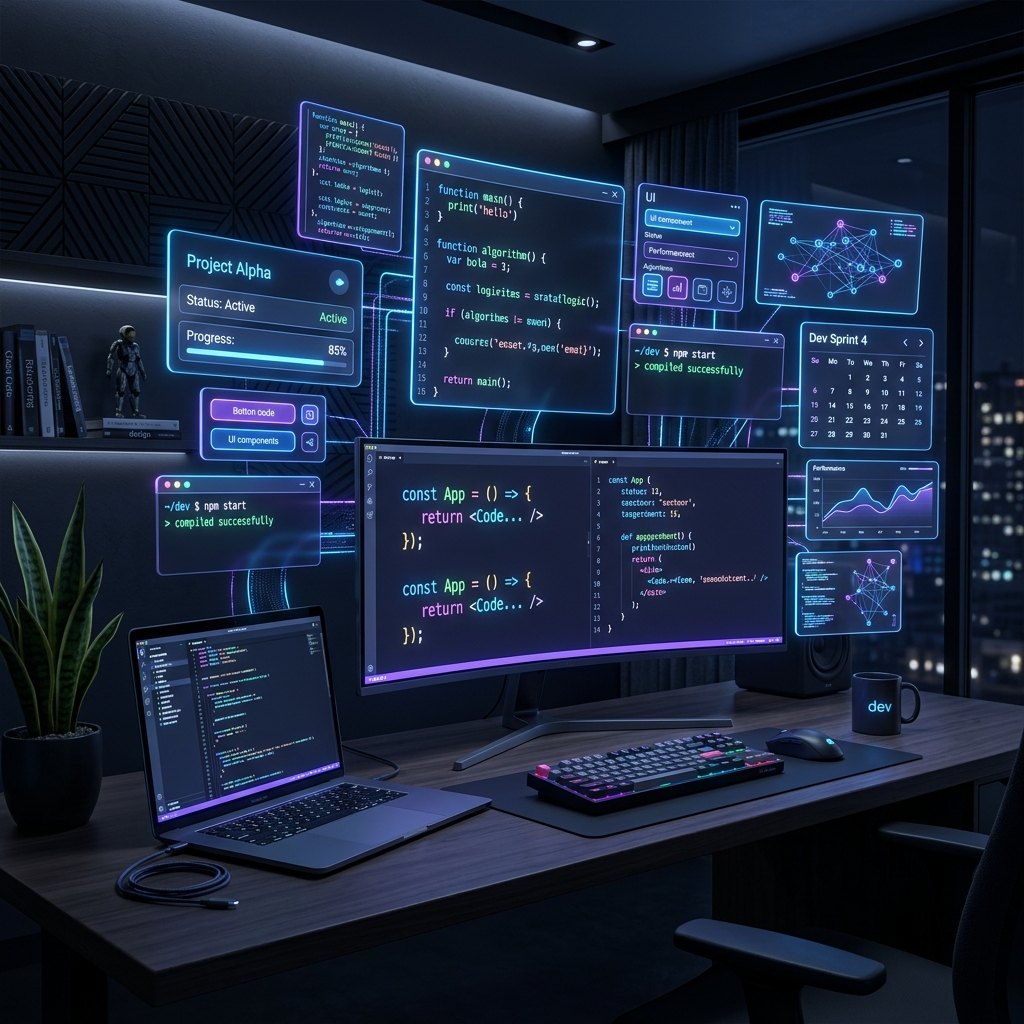
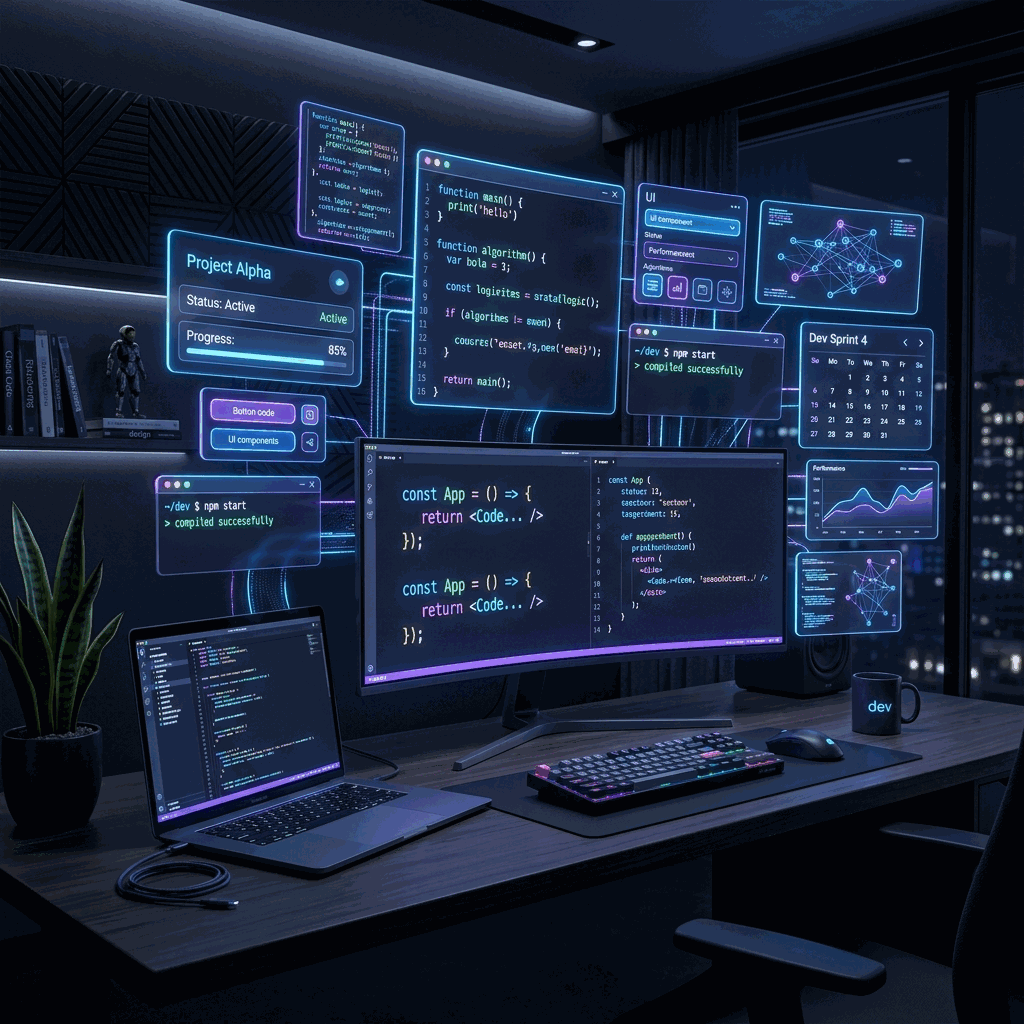
Improve performance: fonts, caching, compression, loader
Performance and asset handling improvements:

- Move font imports to index.html and add preconnects; include additional Google font weights and Aquire (fonts.cdnfonts) with non-blocking load and noscript fallbacks. Removed font @user from style.css.
- Add compression dependency and enable gzip compression middleware in server.
- Serve static files with long-lived cache headers (1y immutable) and ensure HTML/JSON/XML use must-revalidate to allow updates. Apply static options to /admin, /img/projects and root.
- Update client script loader to safely hide/remove the loader, add a 1.5s fallback timeout, and skip particles on mobile or reduced-motion for performance.
- Add original copies of updated images and replace/modify image files accordingly.

These changes reduce render blocking, improve network performance, and prevent stuck loading states on slow connections.

Changed region(s): [[0.2812, 0.375, 0.3125, 0.4375], [0.4688, 0.1875, 0.5, 0.2188], [0.1562, 0.4688, 0.1875, 0.5]]

diff --git a/script.js b/script.js
@@ -18,15 +18,23 @@ function initLoadingScreen() {
     `;
   document.body.appendChild(loader);
 
-  window.addEventListener("load", () => {
+  const hideLoader = () => {
+    if (loader.style.opacity === "0") return;
+    loader.style.opacity = "0";
+    document.body.classList.add("loaded");
     setTimeout(() => {
-      loader.style.opacity = "0";
-      document.body.classList.add("loaded");
-      setTimeout(() => {
-        loader.remove();
-      }, 500);
+      loader.remove();
     }, 500);
+  };
+
+  // Dismiss loader on window load OR after a fallback timeout (1.5 seconds)
+  // to ensure immediate usability on slow mobile connections.
+  window.addEventListener("load", () => {
+    setTimeout(hideLoader, 200);
   });
+  
+  // Safe fallback to prevent loader getting stuck on slow networks
+  setTimeout(hideLoader, 1500);
 }
 
 // Initialize particles background
@@ -47,8 +55,8 @@ function initParticles() {
 
   if (typeof particlesJS !== "function") return;
 
-  if (prefersReduced) {
-    // Disable on reduced motion for performance
+  if (prefersReduced || isMobile) {
+    // Disable on mobile or reduced motion for performance
     particlesContainer.remove();
     return;
   }

diff --git a/server.js b/server.js
@@ -11,6 +11,9 @@ const { db, initDB } = require("./db");
 
 const app = express();
 
+const compression = require("compression");
+app.use(compression());
+
 app.use(helmet({ contentSecurityPolicy: false }));
 app.use(cors());
 app.use(express.json());
@@ -46,13 +49,25 @@ const transporter = nodemailer.createTransport({
 // ═══════════════════════════════════════════════════════════════════════
 
 // Serve admin panel static files FIRST
-app.use("/admin", express.static(path.join(__dirname, "admin")));
+const staticOptions = {
+  maxAge: "1y",
+  setHeaders: (res, filePath) => {
+    const ext = path.extname(filePath).toLowerCase();
+    if (ext === ".html" || ext === ".json" || ext === ".xml") {
+      res.setHeader("Cache-Control", "public, max-age=0, must-revalidate");
+    } else {
+      res.setHeader("Cache-Control", "public, max-age=31536000, immutable");
+    }
+  }
+};
+
+app.use("/admin", express.static(path.join(__dirname, "admin"), staticOptions));
 
 // Serve uploaded project images
-app.use("/img/projects", express.static(path.join(__dirname, "img", "projects")));
+app.use("/img/projects", express.static(path.join(__dirname, "img", "projects"), staticOptions));
 
 // Serve main portfolio static files
-app.use(express.static(__dirname));
+app.use(express.static(__dirname, staticOptions));
 
 // ═══════════════════════════════════════════════════════════════════════
 //  PUBLIC API

diff --git a/index.html b/index.html
@@ -29,18 +29,25 @@
 
   <link rel="preconnect" href="https://fonts.googleapis.com" />
   <link rel="preconnect" href="https://fonts.gstatic.com" crossorigin />
+  <link rel="preconnect" href="https://fonts.cdnfonts.com" crossorigin />
   <link rel="preconnect" href="https://cdnjs.cloudflare.com" crossorigin />
   <link rel="preconnect" href="https://cdn.jsdelivr.net" crossorigin />
   <link rel="dns-prefetch" href="https://unpkg.com" />
 
   <meta name="google-site-verification" content="ByWyF5Jf0UPhacQQxX4AYm4Lzshfs0Z6-zBUB2PM5CQ" />
 
+  <!-- High-Performance Font Loading (Combined Google Fonts & Aquire) -->
   <link rel="stylesheet"
-    href="https://fonts.googleapis.com/css2?family=Fira+Code:wght@400;500&family=Inter:wght@400;500;600;700&display=swap"
+    href="https://fonts.googleapis.com/css2?family=Fira+Code:wght@400;500&family=Inter:wght@300;400;500;600;700;800&family=Orbitron:wght@400;500;600;700;800&family=Space+Grotesk:wght@400;500;600;700&display=swap"
     media="print" onload="this.media='all'" />
   <noscript>
     <link rel="stylesheet"
-      href="https://fonts.googleapis.com/css2?family=Fira+Code:wght@400;500&family=Inter:wght@400;500;600;700&display=swap" />
+      href="https://fonts.googleapis.com/css2?family=Fira+Code:wght@400;500&family=Inter:wght@300;400;500;600;700;800&family=Orbitron:wght@400;500;600;700;800&family=Space+Grotesk:wght@400;500;600;700&display=swap" />
+  </noscript>
+
+  <link rel="stylesheet" href="https://fonts.cdnfonts.com/css/aquire" media="print" onload="this.media='all'" />
+  <noscript>
+    <link rel="stylesheet" href="https://fonts.cdnfonts.com/css/aquire" />
   </noscript>
 
   <link rel="stylesheet" href="https://cdnjs.cloudflare.com/ajax/libs/font-awesome/6.5.1/css/all.min.css" media="print"

diff --git a/style.css b/style.css
@@ -1,5 +1,4 @@
-@import url('https://fonts.googleapis.com/css2?family=Inter:wght@300;400;500;600;700;800&family=Poppins:wght@300;400;500;600;700&family=Orbitron:wght@400;500;600;700;800&family=Space+Grotesk:wght@400;500;600;700&display=swap');
-@import url('https://fonts.cdnfonts.com/css/aquire');
+/* Fonts imported in HTML index.html for high-performance non-blocking load */
 
 /* --- Global Styles --- */
 :root {